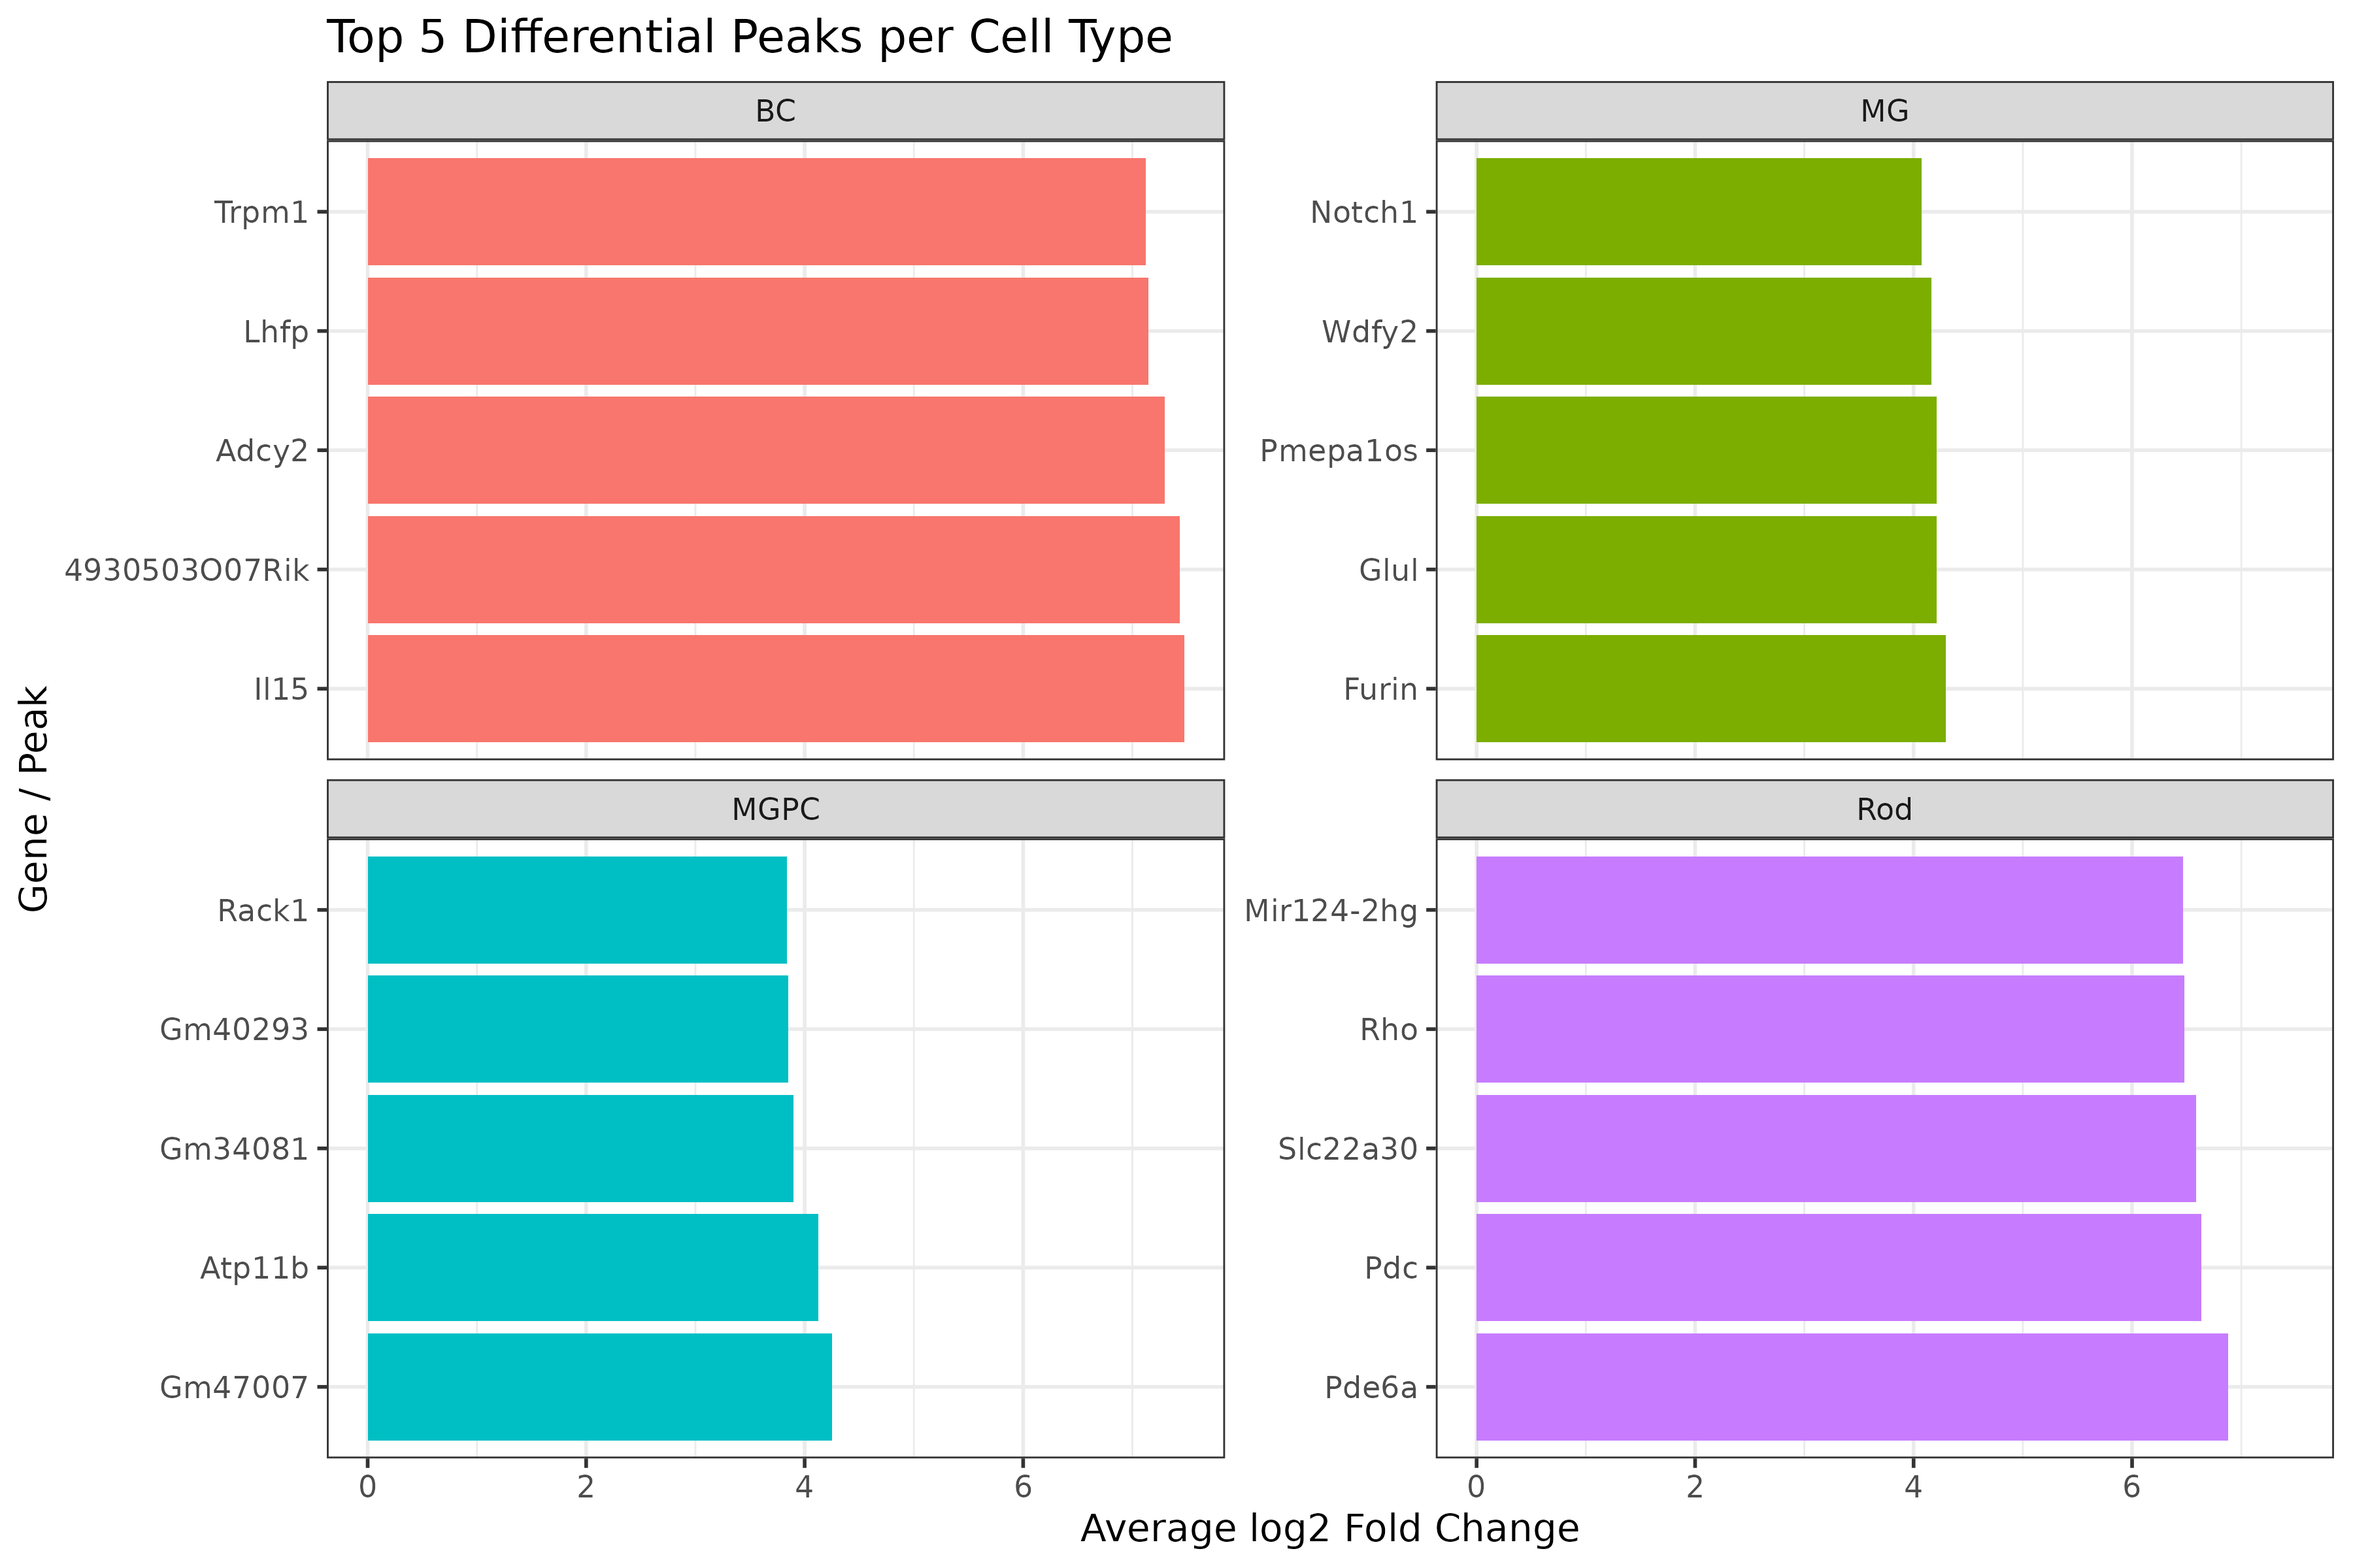
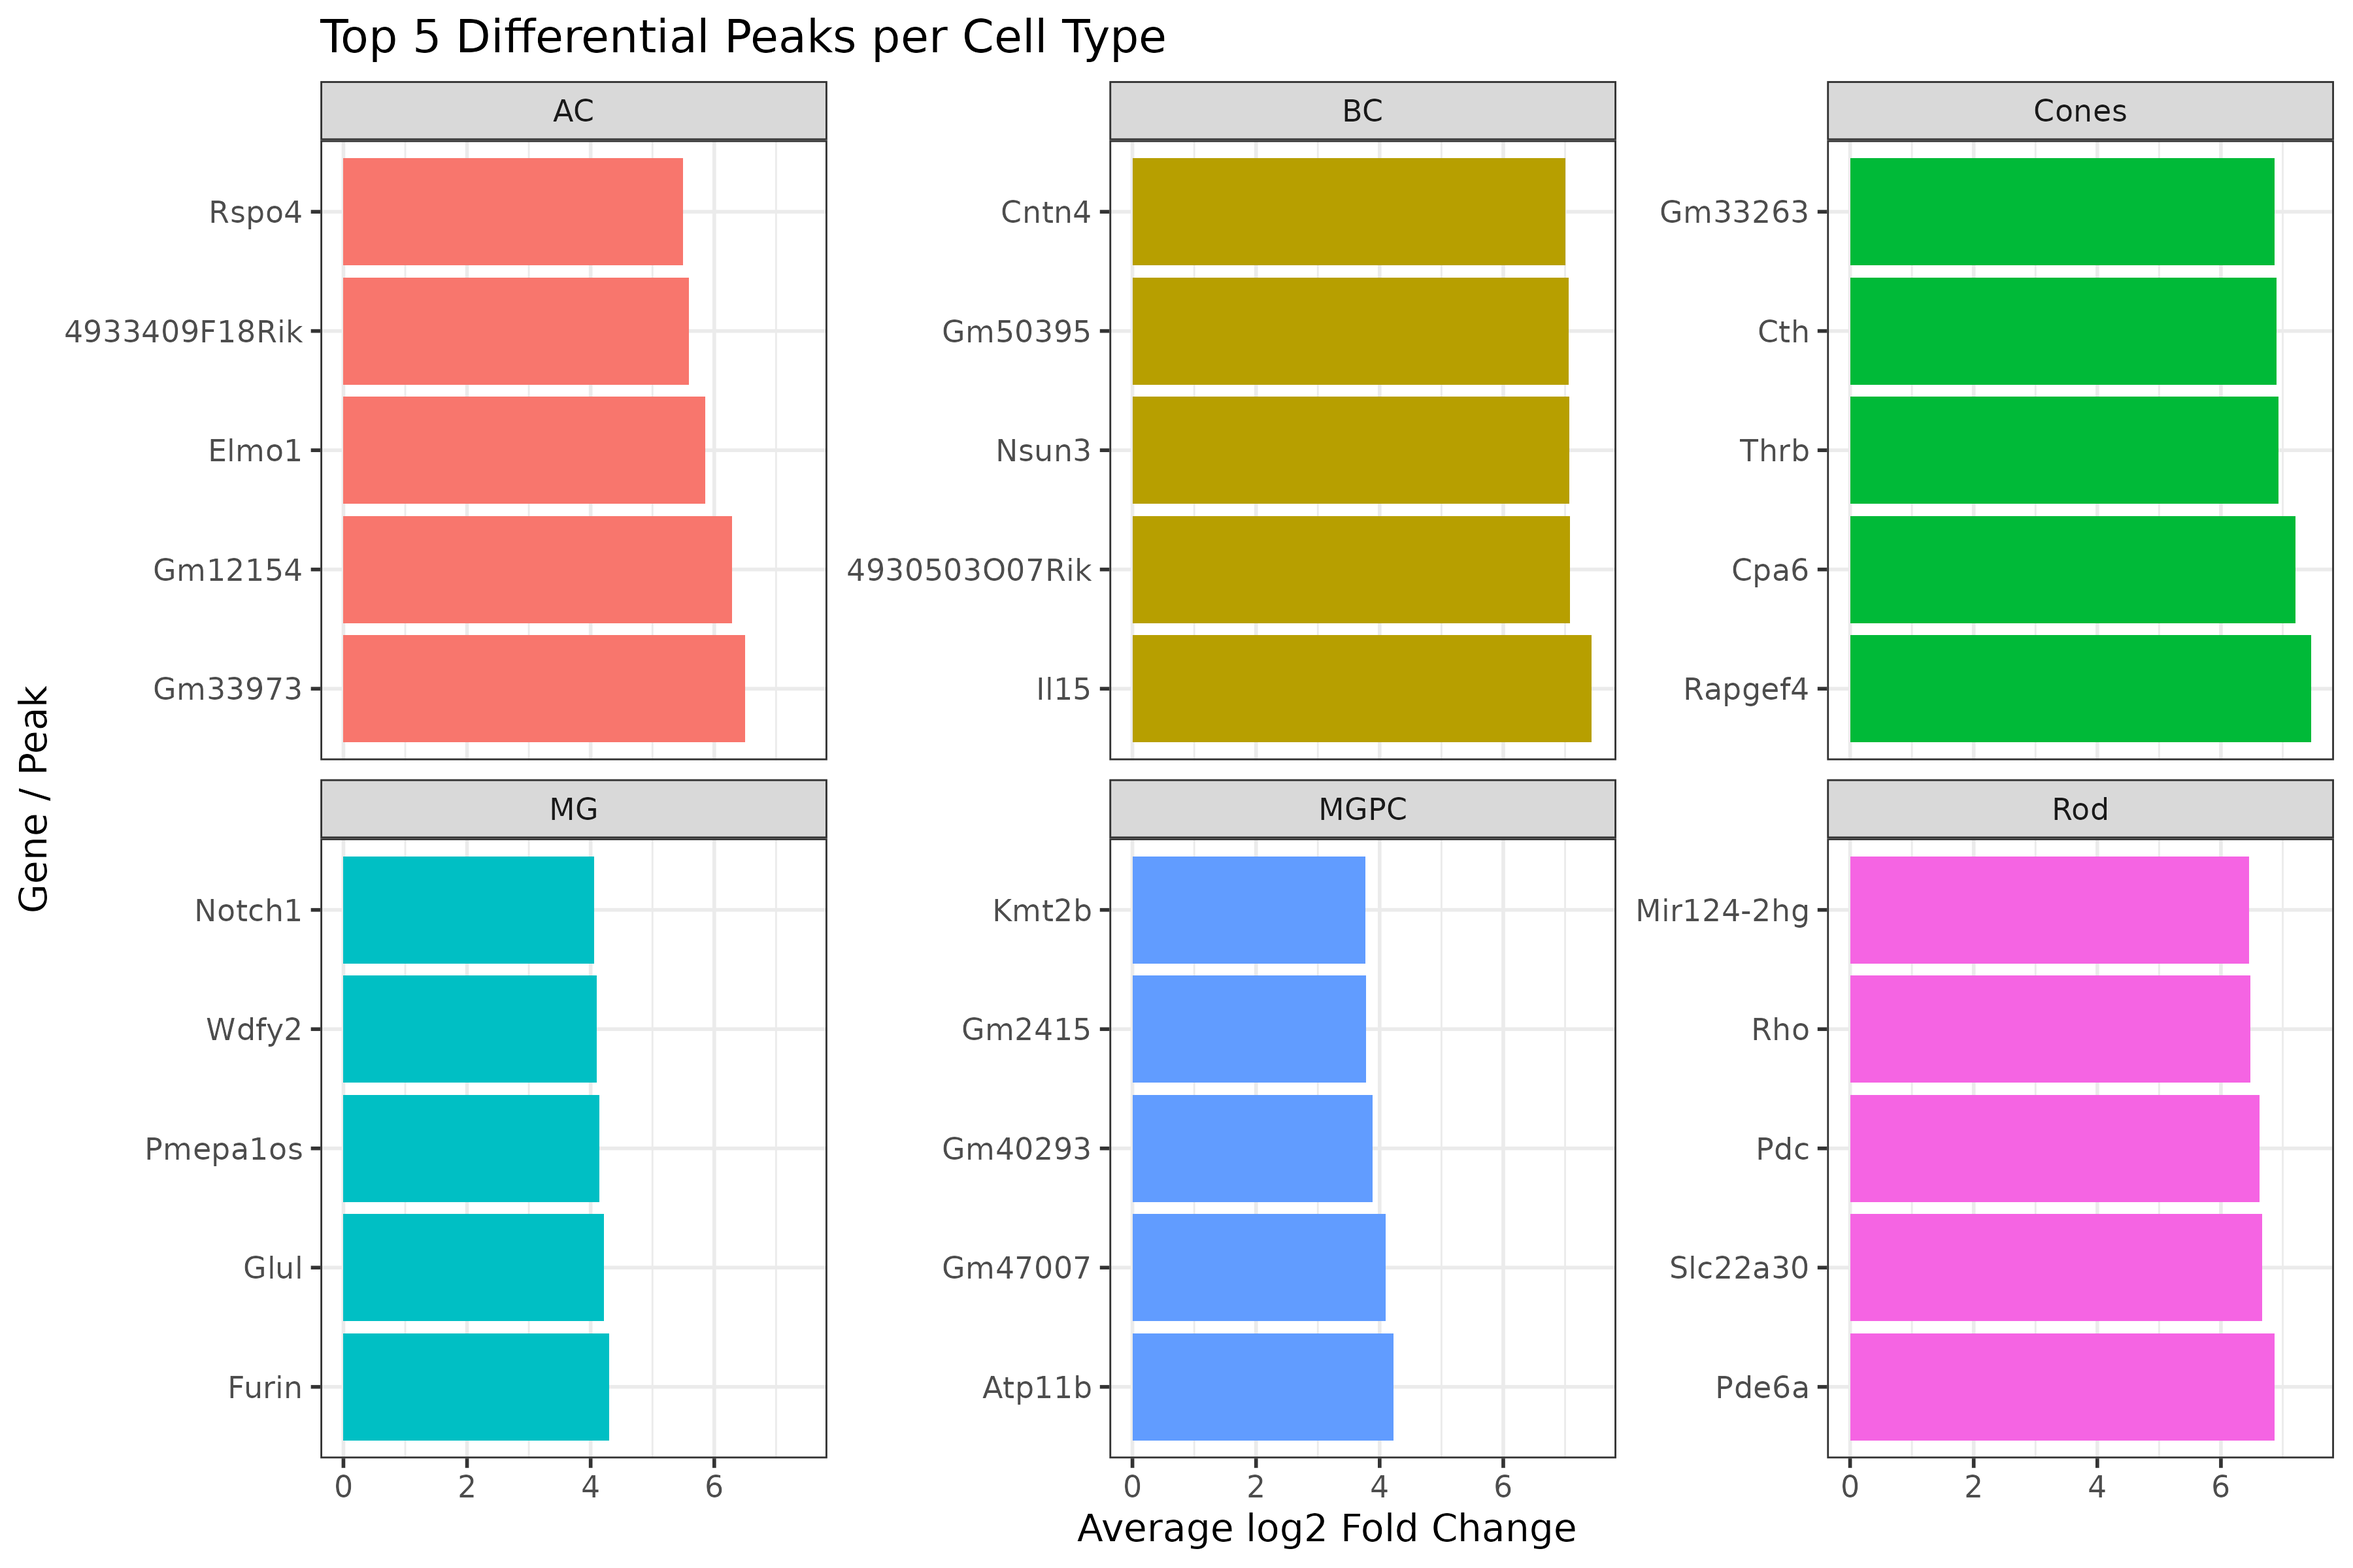
Add diff peaks and top peaks

diff --git a/README.md b/README.md
@@ -144,11 +144,7 @@ celltype_markers <- FindAllMarkers(
 
 ## Top Differential Peaks after annotation (nearby Genes)
 
-![](figures/toppeaks.png?v=3)
-
-![](figures/peak_category_by_cluster.png?v=2)
-
-![](figures/peak_categories.png?v=2)
+![](figures/toppeaks.png?v=4)
 
 
 # ⚠  ⚠  ⚠  ⚠  ONGOING Motif Enrichment 
